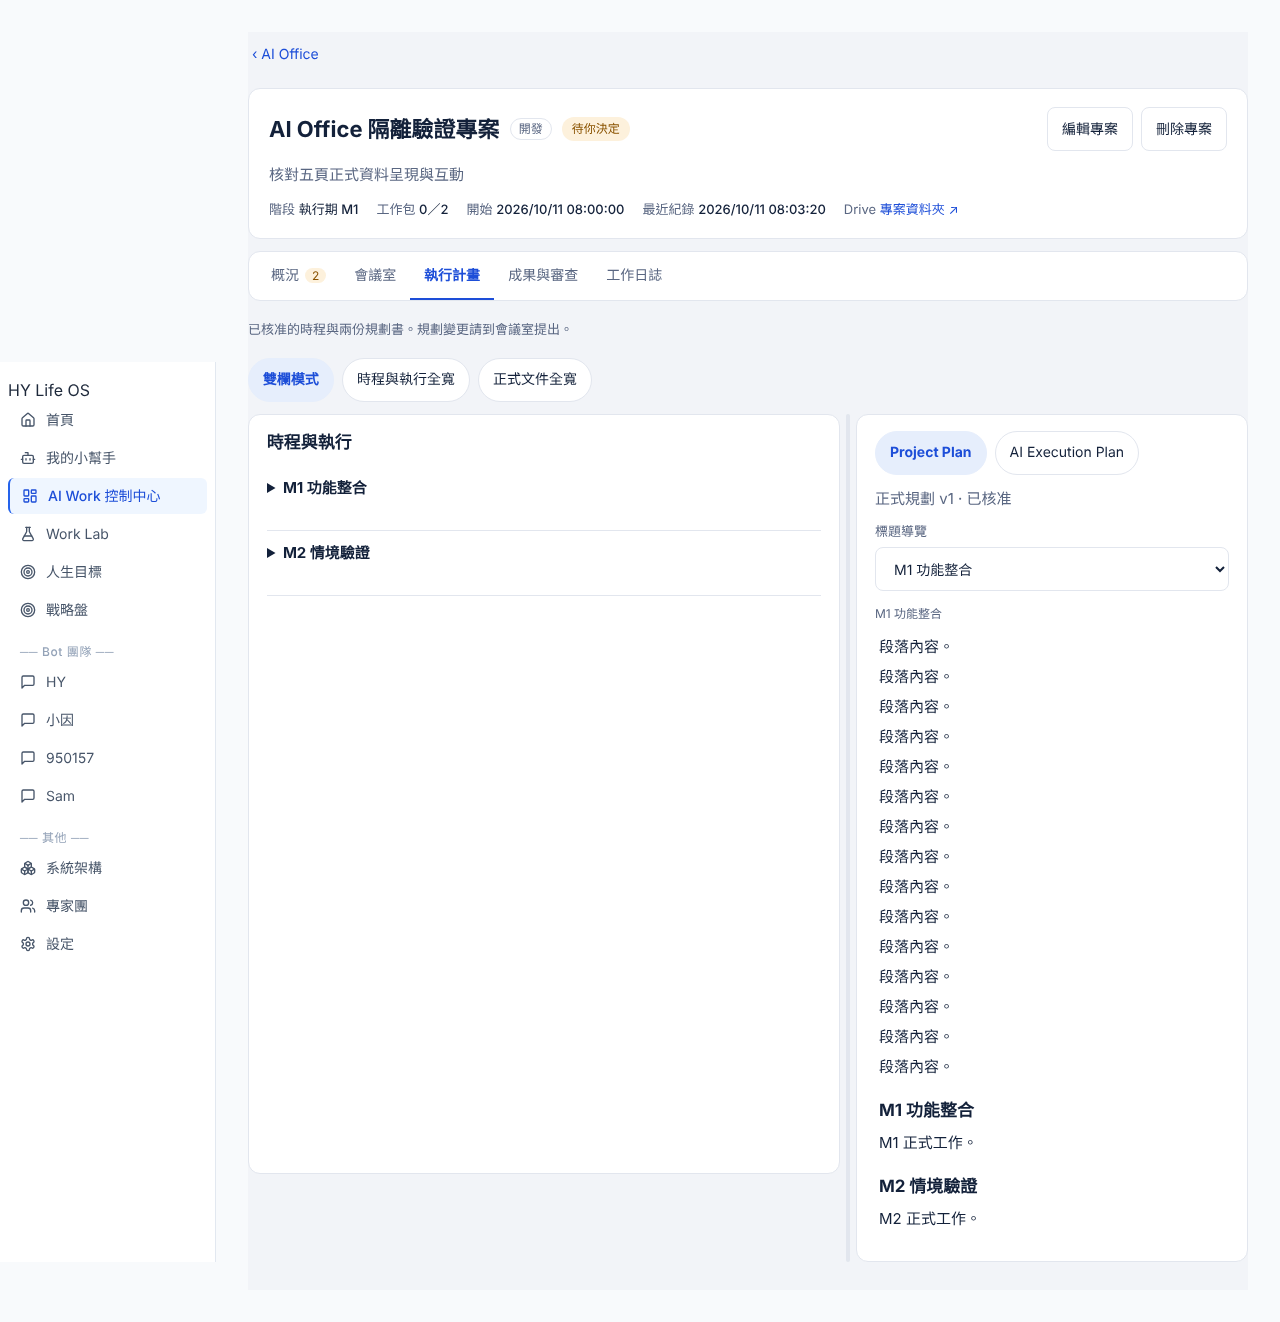
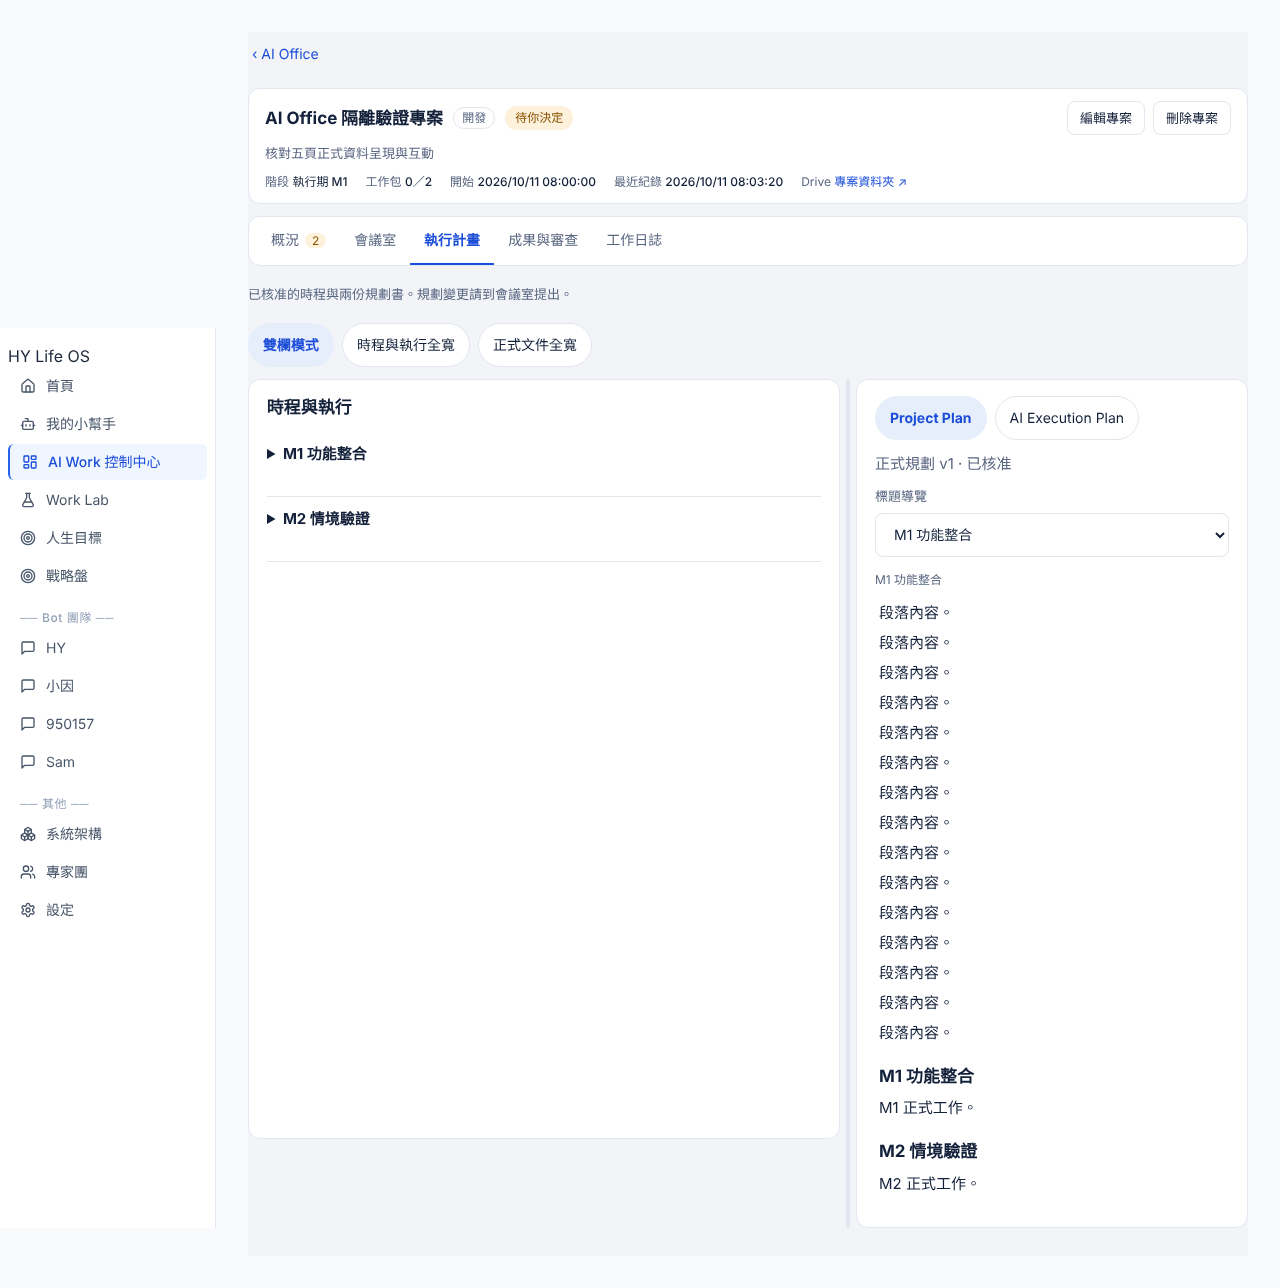
AI Office: 頁首精簡、對話發言者正名、進度條依狀態配色 (#89)
- 頁首只留一行目標，字級與按鈕縮小
- 系統建立的事項顯示「AI Work 系統」（舊資料 requested_by=HY），owner 顯示為 HY
- 已處理事項不再出現「到概況處理」
- 進度條：進行中藍、完成綠

Claude-Session: https://claude.ai/code/session_01Ea8bkY5yr8PRdhnq8hBecS

diff --git a/src/pages/AIOfficeV1.jsx b/src/pages/AIOfficeV1.jsx
@@ -4,7 +4,7 @@ import remarkGfm from 'remark-gfm'
 import ControlCenterV5, { Inbox, DeleteZone, SpecChangeBox } from './ControlCenterV5'
 import { request } from '../aiWorkV5Data'
 import { authHeaders, ensureAccessToken, expireSession } from '../auth'
-import { OFFICE_TABS, TAB_NOTES, isPending, activityLabel, PACKAGE_STATUS, progress, milestones, journal, safeUrl, driveFile } from '../lib/aiOffice.mjs'
+import { OFFICE_TABS, TAB_NOTES, isPending, requester, activityLabel, PACKAGE_STATUS, progress, milestones, journal, safeUrl, driveFile } from '../lib/aiOffice.mjs'
 import { laneLabel } from '../lib/lanes'
 import OfficeHome from './OfficeHome'
 import './ai-office-v1.css'
@@ -74,7 +74,7 @@ function OfficeProject({ id, onBack, onDeleted }) {
     <header className="ao-header">
       <div className="ao-header-top"><h1>{project.title}</h1>{plan?.project_type && <span className="ao-type">{plan.project_type}</span>}<Pill s={pending.length?'you':project.status==='completed'?'done':'ai'}>{pending.length?'待你決定':activityLabel(project)}</Pill>
         <div className="ao-header-actions"><button aria-expanded={editing} onClick={()=>setEditing(v=>!v)}>編輯專案</button>{project.permissions.delete ? <div className="cc5"><DeleteZone project={project} onDeleted={onDeleted}/></div> : <span className="ao-muted">刪除專案僅限 HY 本人</span>}</div></div>
-      <p className="ao-goal">{project.goal}</p>
+      <p className="ao-goal" title={project.goal}>{project.goal}</p>
       <div className="ao-header-meta"><span>階段 <b>{project.phase} {project.milestone_id || ''}</b></span><span>工作包 <b>{count.done}／{count.total}</b></span><span>開始 <b>{when(project.started_at)}</b></span><span>最近紀錄 <b>{when(project.updated_at)}</b></span>{folder && <span>Drive <Link href={`https://drive.google.com/drive/folders/${folder}`}>專案資料夾</Link></span>}</div>
     </header>
     {editing && <Card title="編輯專案（正式規格變更）"><p className="ao-muted">目標與範圍走正式規格變更，由你核准後才生效。</p>{project.plan_state==='APPROVED' && project.phase==='執行期' && project.milestone_id ? <div className="cc5"><SpecChangeBox project={project} onChanged={reload} setError={setError} goInbox={()=>setTab('overview')}/></div> : <Empty>目前階段未開放規格變更；請到會議室提出意見。</Empty>}</Card>}

diff --git a/src/pages/ai-office-v1.css b/src/pages/ai-office-v1.css
@@ -45,7 +45,7 @@
 .ao-project-title{display:grid;gap:2px;min-width:0}.ao-project-title b{font-size:var(--hy-fs-body)}
 .ao-project-goal{color:var(--hy-muted);font-size:var(--hy-fs-meta);white-space:nowrap;overflow:hidden;text-overflow:ellipsis}
 .ao-project-stage,.ao-home-progress{display:grid;gap:4px;font-size:var(--hy-fs-meta);color:var(--hy-muted)}
-.ao-progress-track{display:block;height:6px;border-radius:var(--hy-r-pill);background:var(--hy-sunken);overflow:hidden}.ao-progress-track>span{display:block;height:100%;background:var(--hy-done)}
+.ao-progress-track{display:block;height:6px;border-radius:var(--hy-r-pill);background:var(--hy-sunken);overflow:hidden}.ao-progress-track>span{display:block;height:100%;background:var(--hy-ai)}.ao-progress-track[data-s=done]>span{background:var(--hy-done)}
 .ao-project-time{text-align:right}
 .ao-home-empty{text-align:center;padding:32px}
 
@@ -81,6 +81,11 @@
 .ao-timeline li.is-current:before{border-color:var(--hy-ai);background:var(--hy-ai-bg)}.ao-timeline li.is-done:before{border-color:var(--hy-done);background:var(--hy-done)}
 .ao .ao-timeline button{border:0;background:none;text-align:left;display:flex;flex-direction:column;padding:6px 0;height:auto}
 
+/* 頁首精簡：不常看，只留一行目標 */
+.ao-header{padding:12px 16px;gap:2px}.ao-header h1{font-size:var(--hy-fs-card)}
+.ao-goal{margin:0;font-size:var(--hy-fs-meta);white-space:nowrap;overflow:hidden;text-overflow:ellipsis;max-width:none}
+.ao-header-meta{font-size:var(--hy-fs-tiny)}
+@media(min-width:641px){.ao .ao-header-actions button{min-height:34px;padding:0 12px;font-size:var(--hy-fs-meta)}}
 /* 會議室 */
 .ao-meeting{display:grid;grid-template-columns:minmax(0,1fr) minmax(230px,30%);gap:var(--hy-gap);align-items:start}
 .ao-thread{display:grid;gap:10px;max-height:560px;overflow:auto;padding:4px 0 12px}

diff --git a/src/pages/OfficeHome.jsx b/src/pages/OfficeHome.jsx
@@ -30,7 +30,7 @@ export default function OfficeHome({projects,details,inbox,loaded,error,creating
     <div className="ao-home-projects" aria-label="專案列表">{visible.map(p=>{const detail=details[p.id],count=detail?progress(detail):null,open=pending(p.id);return <button className={`ao-project-line${open?' needs-you':''}`} key={p.id} onClick={()=>onSelect(p.id)}>
       <span className="ao-project-title"><b>{p.title}</b><span className="ao-project-goal">{p.goal||'目標尚未記錄'}</span></span>
       <span className="ao-project-stage">{p.phase} {p.milestone_id||''}<small>負責 {OWNER[p.owner_bot]||p.owner_bot}</small></span>
-      <span className="ao-home-progress"><span>{count?`工作包 ${count.done}／${count.total}`:'工作包詳情未讀取'}</span>{count?.total>0&&<span className="ao-progress-track" aria-label={`執行工作包完成 ${count.done}／${count.total}`}><span style={{width:`${count.done/count.total*100}%`}}/></span>}</span>
+      <span className="ao-home-progress"><span>{count?`工作包 ${count.done}／${count.total}`:'工作包詳情未讀取'}</span>{count?.total>0&&<span className="ao-progress-track" data-s={count.done===count.total?'done':'ai'} aria-label={`執行工作包完成 ${count.done}／${count.total}`}><span style={{width:`${count.done/count.total*100}%`}}/></span>}</span>
       <span className="hy-pill" data-s={open?'you':p.status==='completed'?'done':'ai'}>{open?`${open} 項待你決定`:activityLabel(detail || p)}</span>
       <small className="ao-project-time">{date(detail?.updated_at)}</small>
     </button>})}</div>
